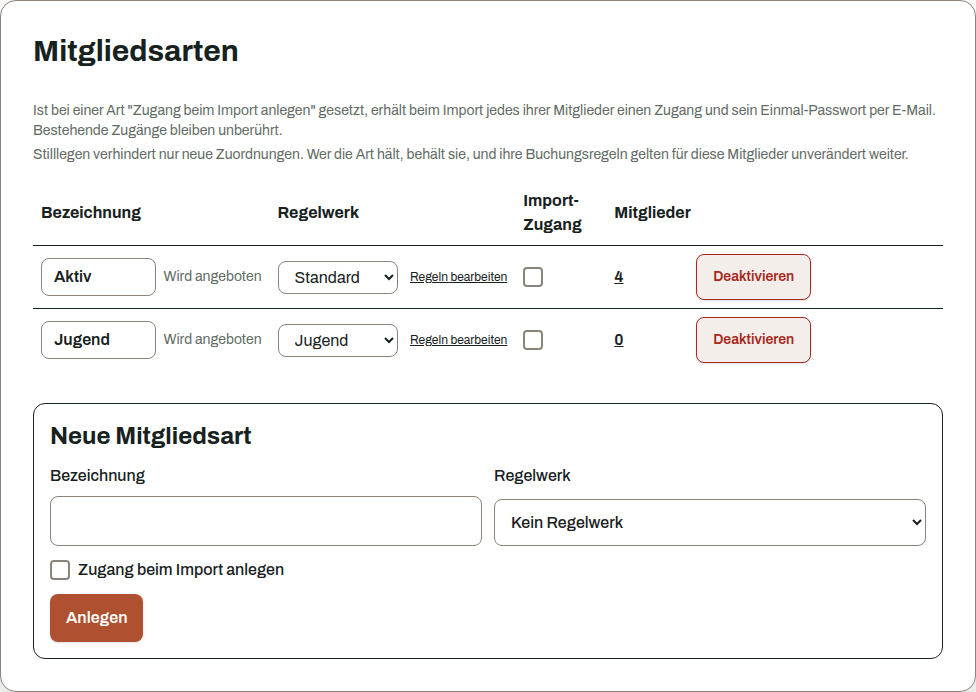
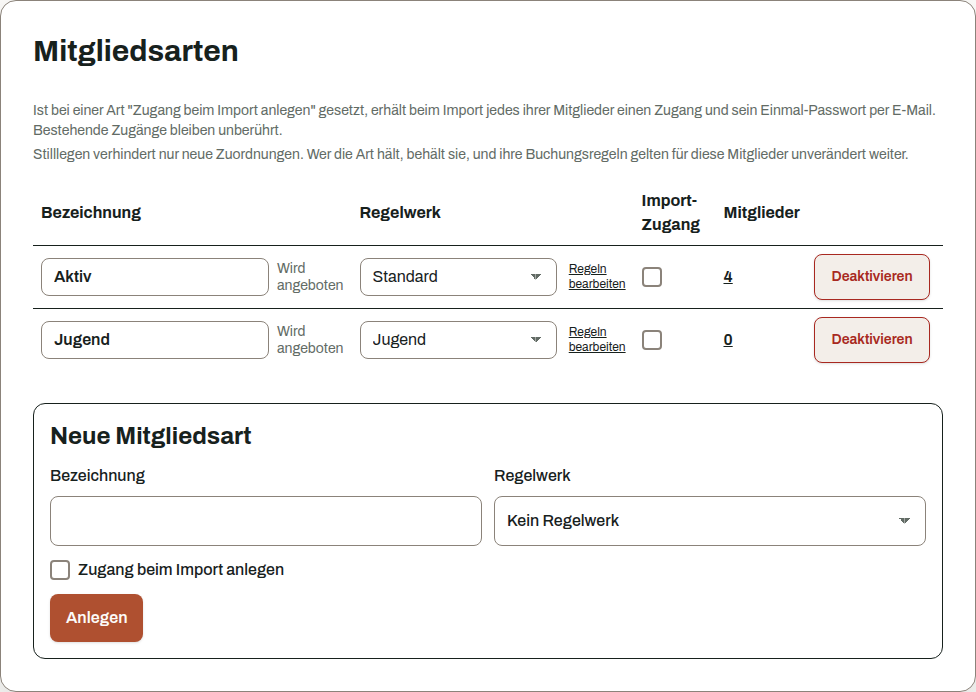
fix: keep admin table and select values readable and never break a username (#1756)
* fix: keep admin table and select values readable and never break a username

The membership types table switches to its table layout at the large breakpoint, gives the name and rule set columns most of the width and puts the state label and rules link under their fields; on phones each label sits above its field. The booking rules page splits its two columns evenly, so the rule set for people without a membership type shows a long name. The change log keeps a username whole, because only an overflow-wrap that does not shrink the column's minimum width lets the table size it.

Closes #1746

* fix: keep ten membership types on one screen and the rule set page within the window

The first layout broke two existing guarantees. It moved the availability and the rules link under their fields, so a row took two lines and ten types no longer fit one laptop screen. It also split the booking rules columns evenly, and the narrower editor pushed that page past one screen. Both rows now stay one line. The availability and the rules link wrap at word boundaries beside their fields. The table starts at xl and gives the name and rule set columns 35 and 31 percent. The booking rules page keeps its original columns, because 23rem for the left column costs 48 px of height and the page has 13. The cut rule set name there and names longer than about 18 characters at 1280 px move to #1760.

---------

diff --git a/frontend/src/views/AdminMembershipTypesView.tsx b/frontend/src/views/AdminMembershipTypesView.tsx
@@ -148,15 +148,15 @@ export function AdminMembershipTypesView() {
           </div>
           {types.length === 0
             ? <p data-testid="membership-types-empty">{t("admin.membershipTypes.empty")}</p>
-            : <table role="table" className="block w-full text-left md:table md:table-fixed">
+            : <table role="table" className="block w-full text-left xl:table xl:table-fixed">
               <colgroup>
-                <col className="md:w-[26%]" />
-                <col className="md:w-[27%]" />
-                <col className="md:w-[10%]" />
-                <col className="md:w-[9%]" />
-                <col className="md:w-[28%]" />
+                <col className="xl:w-[35%]" />
+                <col className="xl:w-[31%]" />
+                <col className="xl:w-[9%]" />
+                <col className="xl:w-[10%]" />
+                <col className="xl:w-[15%]" />
               </colgroup>
-              <thead role="rowgroup" className="sr-only md:not-sr-only">
+              <thead role="rowgroup" className="sr-only xl:not-sr-only">
                 <tr role="row">
                   <th role="columnheader" scope="col" className="p-2">{t("admin.membershipTypes.name")}</th>
                   <th role="columnheader" scope="col" className="p-2">{t("admin.membershipTypes.ruleSet")}</th>
@@ -165,7 +165,7 @@ export function AdminMembershipTypesView() {
                   <th role="columnheader" scope="col" className="p-2"><span className="sr-only">{t("admin.membershipTypes.actions")}</span></th>
                 </tr>
               </thead>
-              <tbody role="rowgroup" className="grid gap-3 md:table-row-group">
+              <tbody role="rowgroup" className="grid gap-3 xl:table-row-group">
                 {types.map((type) => <MembershipTypeRow
                   key={type.id}
                   type={type}
@@ -218,30 +218,30 @@ function MembershipTypeRow({ type, ruleSets, holders, disabled, value, changed, 
 }) {
   const { t } = useTranslation();
   const { name, ruleSetId, grantsAccount } = value;
-  const cell = "grid min-w-0 grid-cols-[minmax(0,8rem)_minmax(0,1fr)] items-center gap-3 md:table-cell md:border-t md:p-2 md:align-middle";
-  const label = "font-medium md:hidden";
+  const cell = "grid min-w-0 gap-1 sm:grid-cols-[minmax(0,8rem)_minmax(0,1fr)] sm:items-center sm:gap-3 xl:table-cell xl:border-t xl:p-2 xl:align-middle";
+  const label = "font-medium xl:hidden";
 
-  return <tr role="row" data-testid={`membership-type-${type.id}`} className="grid gap-2 rounded-xl border p-4 md:table-row md:rounded-none md:border-0 md:bg-transparent md:p-0">
+  return <tr role="row" data-testid={`membership-type-${type.id}`} className="grid gap-2 rounded-xl border p-4 xl:table-row xl:rounded-none xl:border-0 xl:bg-transparent xl:p-0">
     <th role="rowheader" scope="row" className={`${cell} font-normal`}>
       <span aria-hidden="true" data-testid="membership-type-label-name" className={label}>{t("admin.membershipTypes.name")}</span>
       <span className="flex min-w-0 items-center gap-2">
         <input data-testid={`membership-type-name-${type.id}`} aria-label={t("admin.membershipTypes.name")} disabled={disabled}
-               maxLength={NAME_LENGTH} className="form-control w-0 min-w-24 flex-1 rounded-lg border px-3 py-1.5 font-semibold"
+               maxLength={NAME_LENGTH} className="form-control w-0 min-w-0 flex-1 rounded-lg border px-3 py-1.5 font-semibold"
                value={name} onChange={(event) => changed({ name: event.target.value })} />
-        <span data-testid={`membership-type-state-${type.id}`} className={`shrink-0 text-sm ${type.active ? "text-muted" : "font-semibold"}`}>
+        <span data-testid={`membership-type-state-${type.id}`} className={`w-min shrink-0 text-sm leading-tight ${type.active ? "text-muted" : "font-semibold"}`}>
           {t(type.active ? "admin.membershipTypes.offered" : "admin.membershipTypes.retired")}
         </span>
       </span>
     </th>
     <td role="cell" className={cell}>
       <span aria-hidden="true" data-testid="membership-type-label-rule-set" className={label}>{t("admin.membershipTypes.ruleSet")}</span>
-      <span className="flex min-w-0 flex-wrap items-center gap-x-3 gap-y-1">
+      <span className="flex min-w-0 items-center gap-3">
         <select data-testid={`membership-type-rule-set-${type.id}`} aria-label={t("admin.membershipTypes.ruleSet")} disabled={disabled}
-                className="form-control w-0 min-w-28 flex-1 rounded-lg border px-3 py-1.5" value={ruleSetId} onChange={(event) => changed({ ruleSetId: event.target.value })}>
+                className="form-control w-0 min-w-0 flex-1 rounded-lg border px-3 py-1.5" value={ruleSetId} onChange={(event) => changed({ ruleSetId: event.target.value })}>
           <option value="">{t("admin.membershipTypes.noRuleSet")}</option>
           {ruleSets.map((set) => <option key={set.id} value={set.id}>{set.name}</option>)}
         </select>
-        {type.ruleSetId && <Link data-testid={`membership-type-rules-link-${type.id}`} className="inline-flex min-h-6 shrink-0 items-center text-xs whitespace-nowrap underline"
+        {type.ruleSetId && <Link data-testid={`membership-type-rules-link-${type.id}`} className="inline-flex min-h-6 w-min shrink-0 items-center text-xs leading-tight underline"
                                  to={`/admin/rule-sets?ruleSetId=${encodeURIComponent(type.ruleSetId)}#rule-set`}>
           {t("admin.membershipTypes.ruleSetLink")}
         </Link>}
@@ -263,7 +263,7 @@ function MembershipTypeRow({ type, ruleSets, holders, disabled, value, changed, 
           <span aria-hidden="true">…</span><span className="sr-only">{t("status.loading")}</span>
         </span>}
     </td>
-    <td role="cell" className="min-w-0 md:border-t md:p-2 md:align-middle">
+    <td role="cell" className="min-w-0 xl:border-t xl:p-2 xl:align-middle">
       <div className="flex flex-wrap items-center gap-2">
         <Button variant={type.active ? "destructive" : "primary"} data-testid={`toggle-membership-type-${type.id}`} disabled={disabled} type="button"
                 className="px-3 py-1.5 text-sm" onClick={() => void toggle()}>{t(type.active ? "admin.deactivate" : "admin.activate")}</Button>

diff --git a/frontend/e2e/presentation-supported-browser.spec.ts b/frontend/e2e/presentation-supported-browser.spec.ts
@@ -138,3 +138,71 @@ for (const effectiveFrom of [null, "2099-07-01"]) {
     });
   });
 }
+
+const RULE_SET = { id: "33333333-3333-3333-3333-333333333331", name: "Acceptance youth", active: true };
+
+async function valueWidths(control: Locator) {
+  return control.evaluate((element: HTMLInputElement | HTMLSelectElement) => {
+    const style = getComputedStyle(element);
+    const context = document.createElement("canvas").getContext("2d")!;
+    context.font = `${style.fontStyle} ${style.fontWeight} ${style.fontSize} ${style.fontFamily}`;
+    const text = element instanceof HTMLSelectElement ? element.selectedOptions[0].text : element.value;
+    const available = element.clientWidth - parseFloat(style.paddingLeft) - parseFloat(style.paddingRight);
+    return { text, needed: Math.ceil(context.measureText(text).width), available: Math.floor(available) };
+  });
+}
+
+async function expectWholeValue(control: Locator, where: string) {
+  const { text, needed, available } = await valueWidths(control);
+  expect(available, `${where}: "${text}" needs ${needed}px of the ${available}px its field shows`).toBeGreaterThanOrEqual(needed);
+}
+
+for (const viewport of [{ width: 1280, height: 800 }, { width: 820, height: 1180 }, { width: 412, height: 915 }]) {
+  test(`given German membership types at ${viewport.width}px, when the table renders, then every name and rule set shows its whole value`, async ({ page }) => {
+    test.setTimeout(60_000);
+    // given
+    const typeId = "44444444-4444-4444-4444-444444444441";
+    await page.route("**/api/admin/membership-types", (route) => route.fulfill({ json: [
+      { id: typeId, name: "Acceptance members", active: true, grantsAccount: true, ruleSetId: RULE_SET.id }
+    ] }));
+    await page.route("**/api/admin/rule-sets", (route) => route.fulfill({ json: [RULE_SET] }));
+    await page.route("**/api/admin/roster?**", (route) => route.fulfill({ json: { entries: [], matching: 0 } }));
+    await page.addInitScript(() => window.localStorage.setItem("courtside.locale", "de"));
+    await page.setViewportSize(viewport);
+    await signIn(page);
+
+    // when
+    await page.goto("/admin/membership-types");
+    await expect(page.getByTestId(`membership-type-holders-${typeId}`)).toHaveText("0", { timeout: 10_000 });
+
+    // then
+    await expectWholeValue(page.getByTestId(`membership-type-name-${typeId}`), "the type name");
+    await expectWholeValue(page.getByTestId(`membership-type-rule-set-${typeId}`), "the bound rule set");
+    expect(await page.evaluate(() => document.documentElement.scrollWidth), "the page does not scroll sideways").toBeLessThanOrEqual(viewport.width);
+  });
+}
+
+test("given a tablet change log, when an entry names its actor by a dotted username, then the username stays on one line", async ({ page }) => {
+  test.setTimeout(60_000);
+  // given
+  await page.route("**/api/admin/audit?**", (route) => route.fulfill({ json: { entries: [{
+    id: "audit-0", occurredAt: "2026-10-25T07:16:44Z", eventType: "booking.booking.cancelled", parameters: {},
+    subjectId: "55555555-5555-5555-5555-555555555555", subjectName: "Centre Court, Back Court",
+    actorAccountId: "66666666-6666-6666-6666-666666666666", actorUsername: "richard.miles"
+  }], nextCursor: null } }));
+  await page.setViewportSize({ width: 820, height: 1180 });
+  await signIn(page);
+
+  // when
+  await page.goto("/admin/audit");
+  await expect(page.getByTestId("audit-row")).toHaveCount(1, { timeout: 10_000 });
+
+  // then
+  const actor = page.getByTestId("audit-actor");
+  await expect(actor).toHaveText("richard.miles");
+  expect(await actor.evaluate((element) => {
+    const range = document.createRange();
+    range.selectNodeContents(element);
+    return new Set([...range.getClientRects()].map((rect) => Math.round(rect.top))).size;
+  }), "the username is not broken inside").toBe(1);
+});

diff --git a/frontend/src/views/AdminAuditView.tsx b/frontend/src/views/AdminAuditView.tsx
@@ -169,7 +169,7 @@ export function AdminAuditView() {
                   </td>
                   <td role="cell" className="grid min-w-0 grid-cols-[minmax(0,8rem)_minmax(0,1fr)] gap-3 sm:table-cell sm:border-t sm:p-2">
                     <span aria-hidden="true" data-testid="audit-label-actor" className="font-medium sm:hidden">{t("audit.column.actor")}</span>
-                    <span data-testid="audit-actor" className="min-w-0 [overflow-wrap:anywhere]">{actorLabel(entry, t)}</span>
+                    <span data-testid="audit-actor" className="min-w-0 break-words">{actorLabel(entry, t)}</span>
                   </td>
                 </tr>)}
               </tbody>
